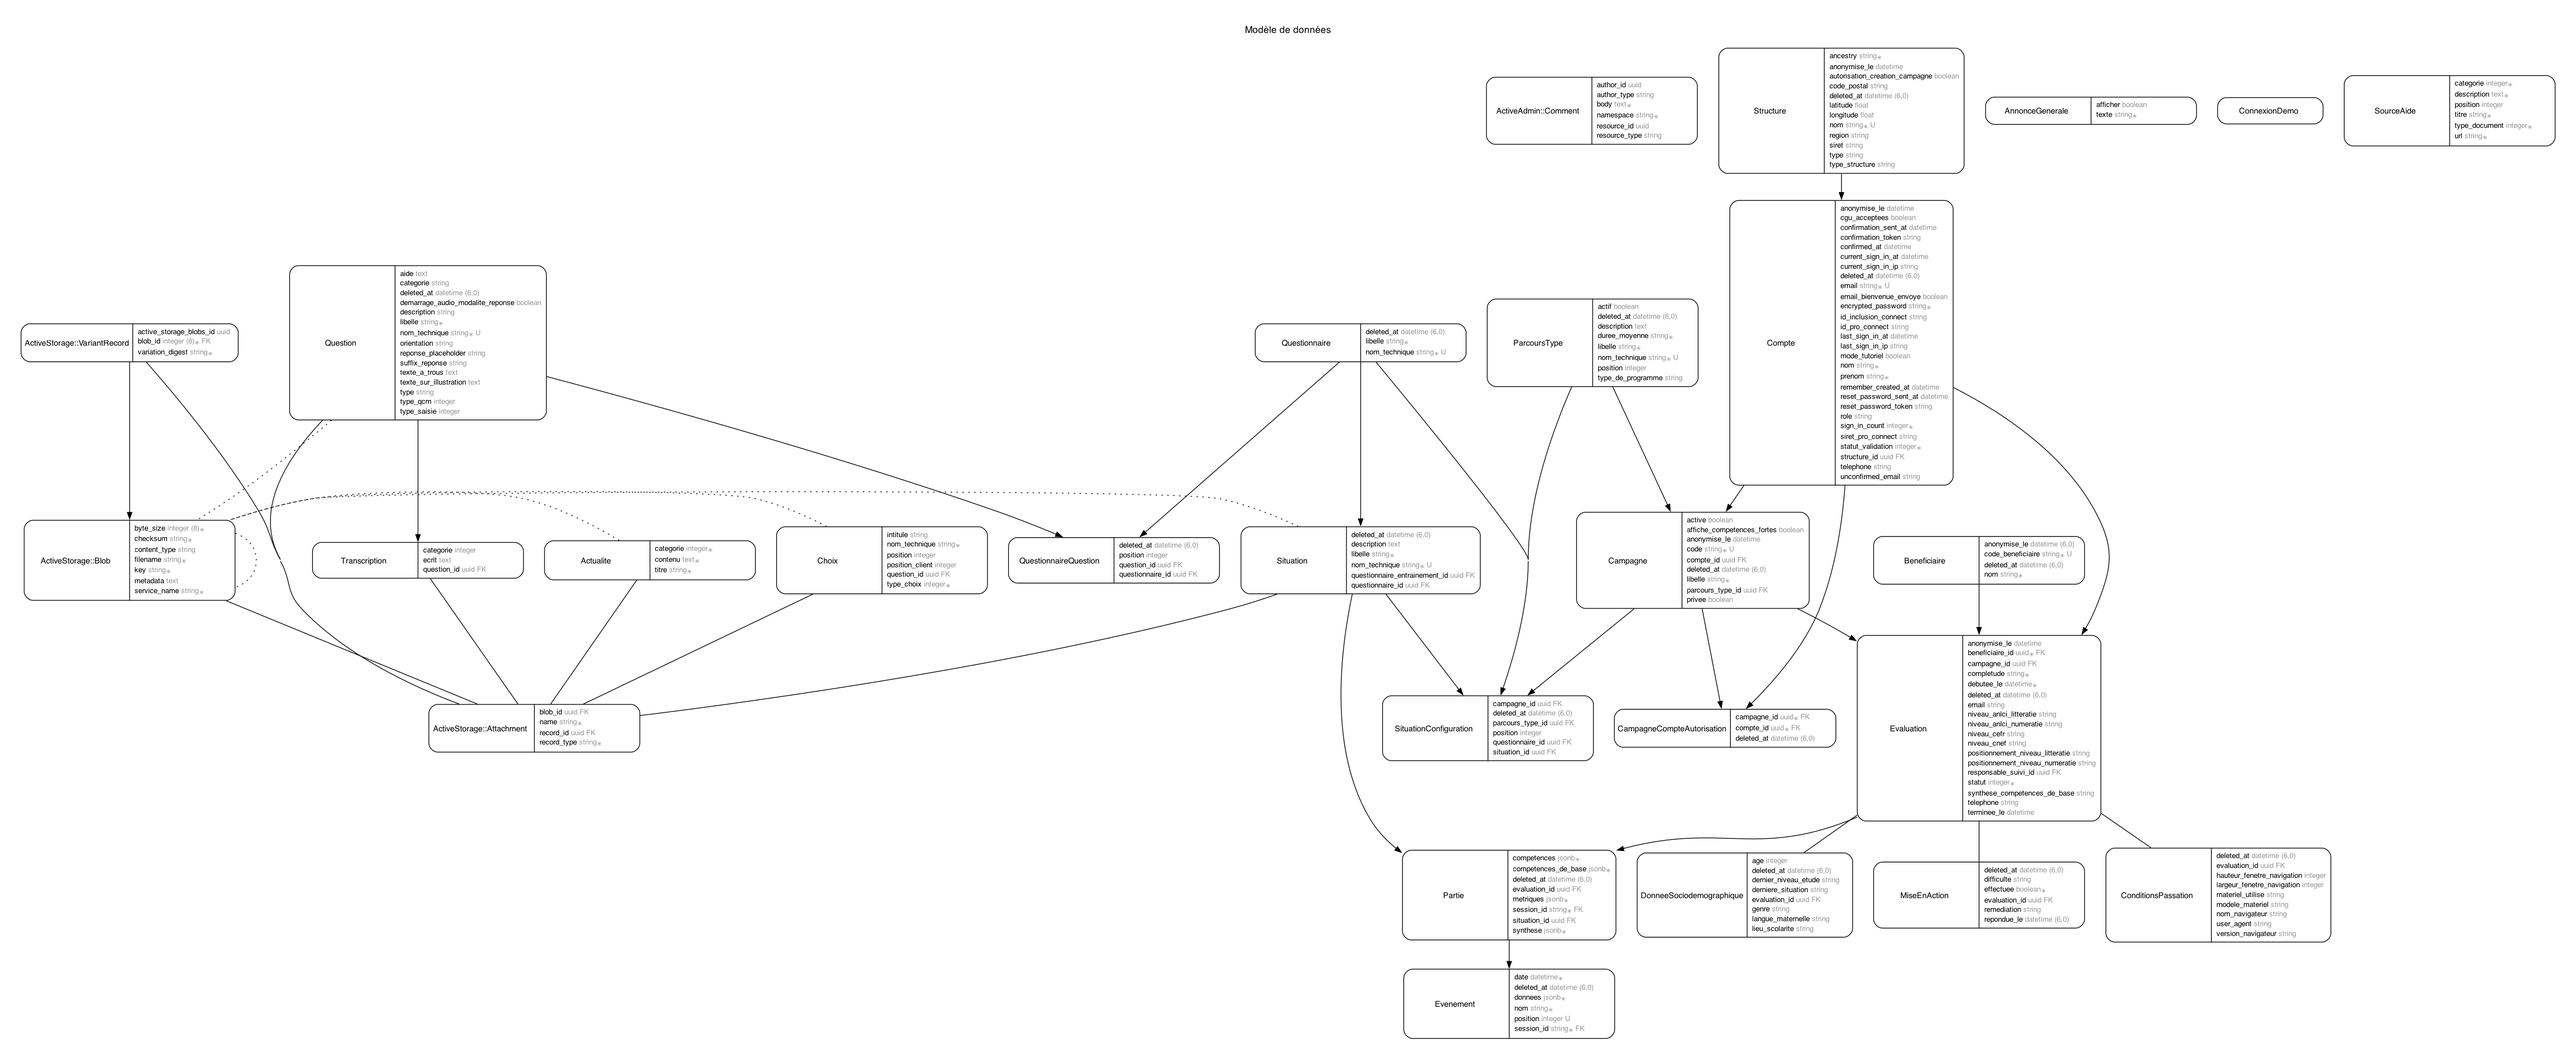
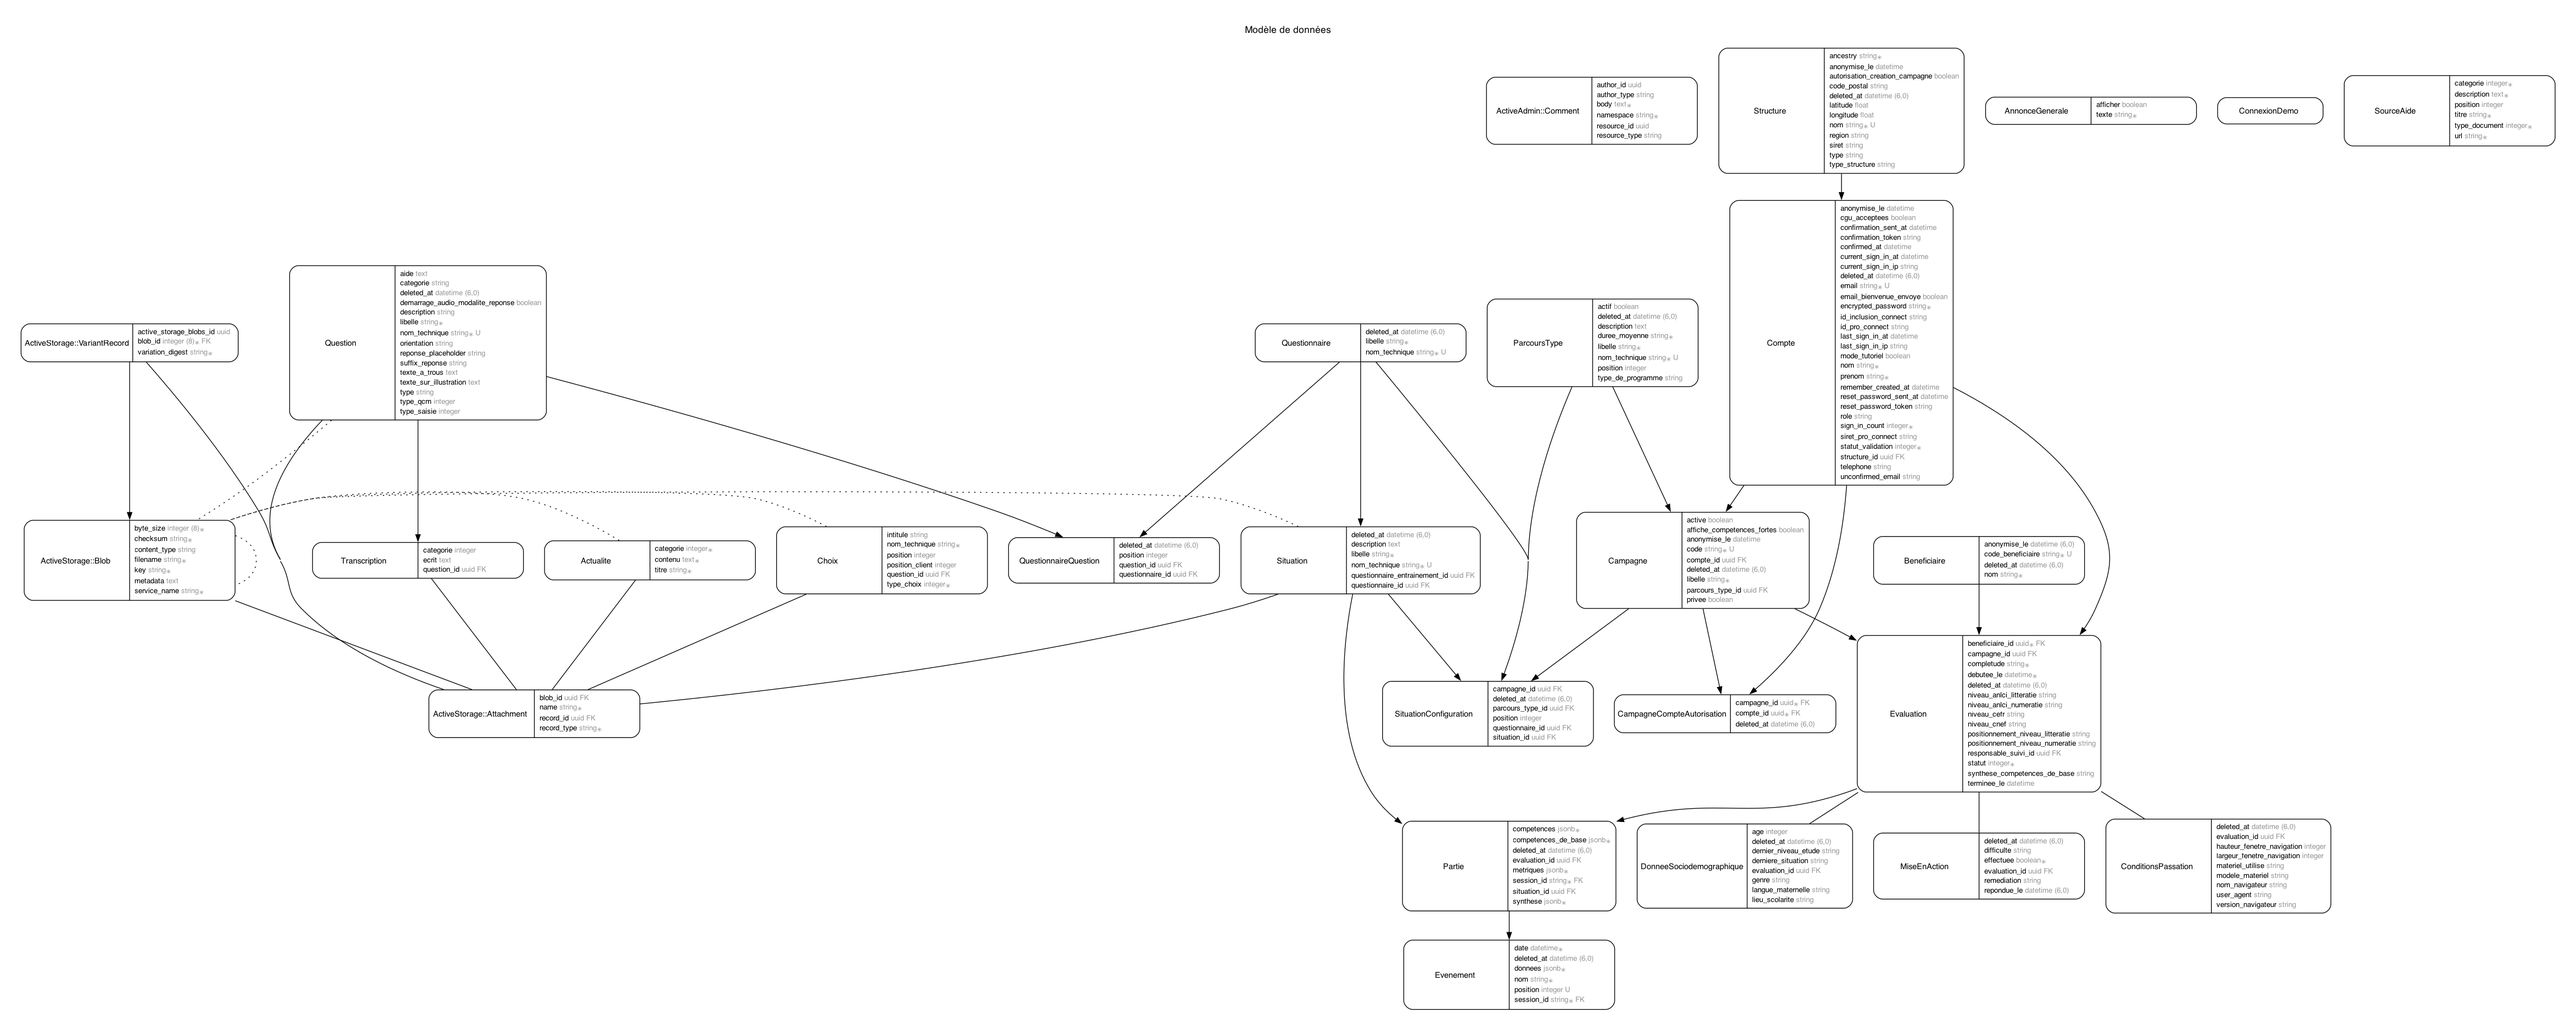
🗃 Supprime les champs d'identitée de la table evaluation

diff --git a/db/schema.rb b/db/schema.rb
@@ -10,7 +10,7 @@
 #
 # It's strongly recommended that you check this file into your version control system.
 
-ActiveRecord::Schema[7.2].define(version: 2025_09_25_154546) do
+ActiveRecord::Schema[7.2].define(version: 2025_10_01_145843) do
   # These are extensions that must be enabled in order to support this database
   enable_extension "pgcrypto"
   enable_extension "plpgsql"
@@ -208,10 +208,7 @@ ActiveRecord::Schema[7.2].define(version: 2025_09_25_154546) do
     t.datetime "created_at", precision: nil, null: false
     t.datetime "updated_at", precision: nil, null: false
     t.uuid "campagne_id"
-    t.string "email"
-    t.string "telephone"
     t.datetime "terminee_le"
-    t.datetime "anonymise_le"
     t.datetime "debutee_le"
     t.string "synthese_competences_de_base"
     t.string "niveau_cefr"

diff --git a/db/migrate/20251001145843_supprime_les_informations_d_identite_des_evaluation.rb b/db/migrate/20251001145843_supprime_les_informations_d_identite_des_evaluation.rb
@@ -1,0 +1,7 @@
+class SupprimeLesInformationsDIdentiteDesEvaluation < ActiveRecord::Migration[7.2]
+  def change
+    remove_column :evaluations, :email, :string
+    remove_column :evaluations, :telephone, :string
+    remove_column :evaluations, :anonymise_le, :datetime
+  end
+end
